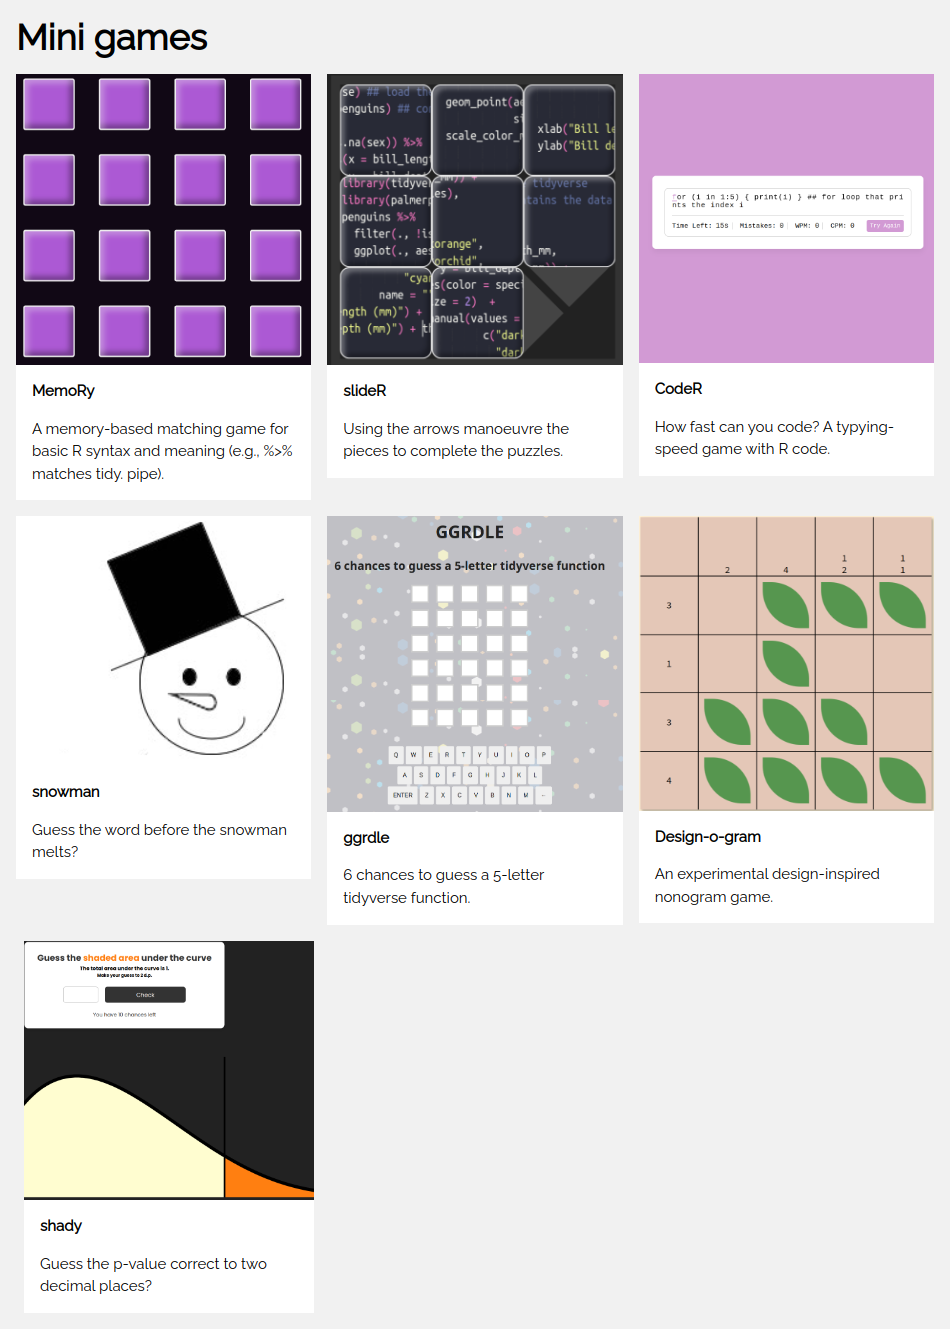
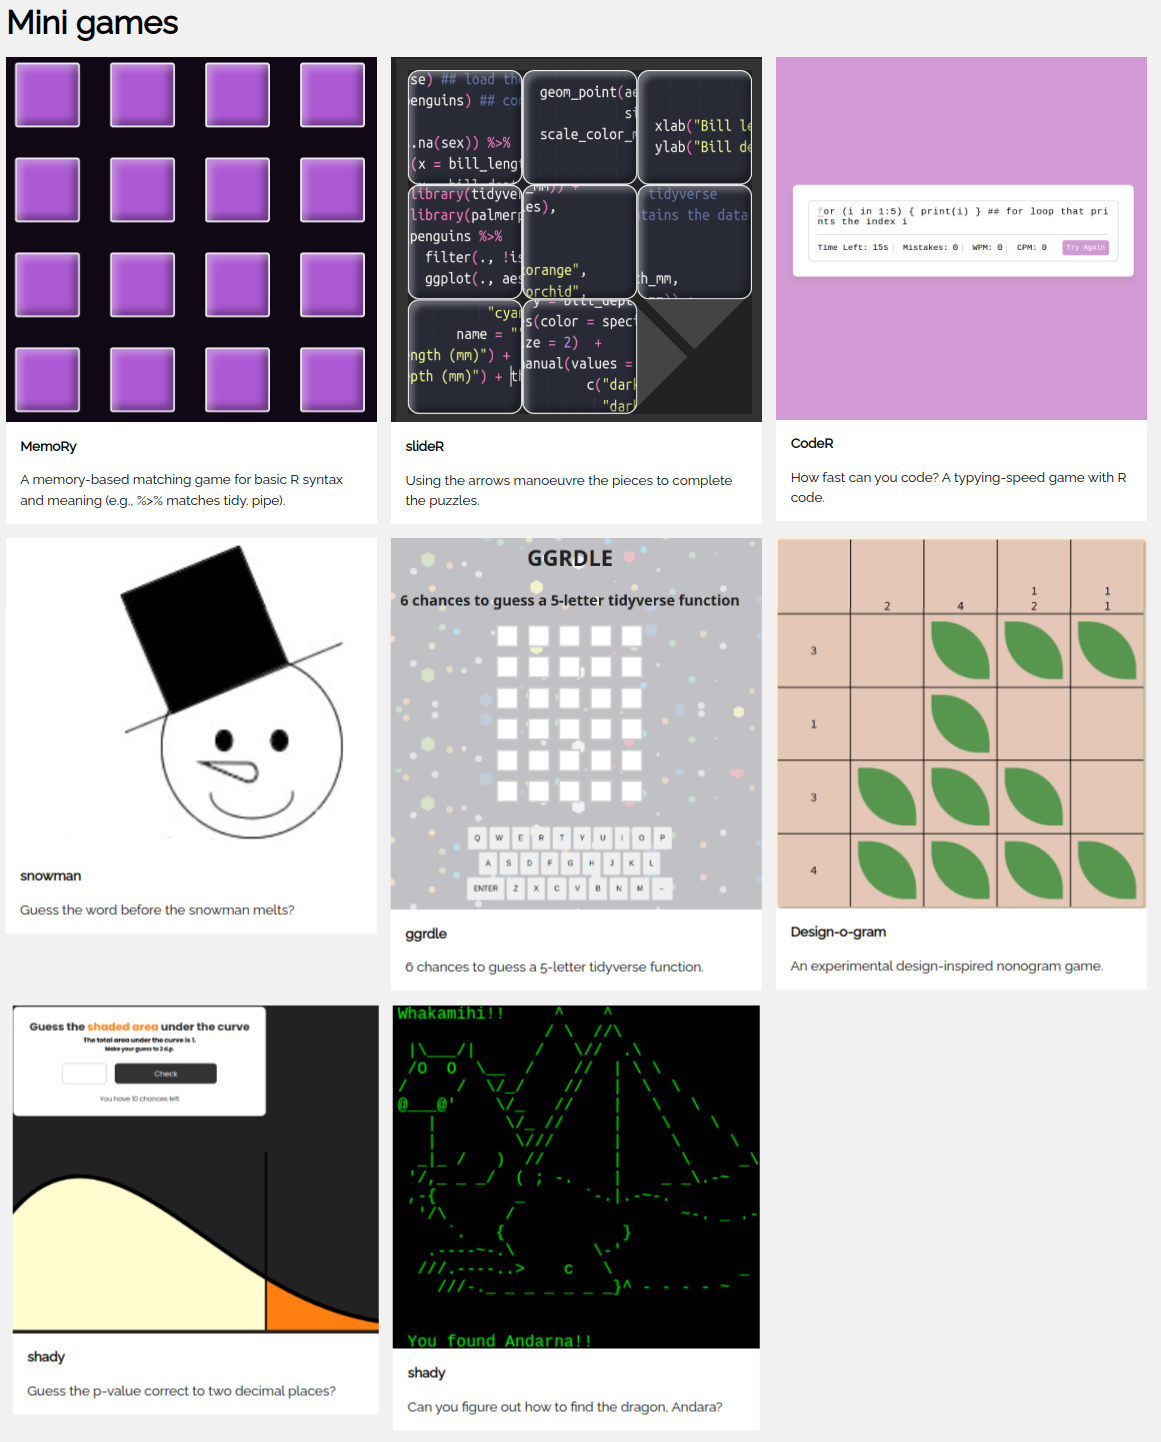
fixing links

Changed region(s): [[0.0, 0.0, 1.0, 0.9872], [0.0305, 0.5862, 0.3053, 0.6479]]

diff --git a/index.html b/index.html
@@ -98,7 +98,7 @@
 	</a>
       <div class="w3-container w3-white">
         <p><b>shady</b></p>
-        <p>Can you figure out how to find the dragon, Andara?</p>
+        <p>Can you figure out how to find the dragon, Andarna?</p>
       </div>
     </div>
  <!-- next game here -->

diff --git a/README.md b/README.md
@@ -13,7 +13,7 @@
  + [ggrdle](https://statbiscuit.github.io/mini_games/ggrdle/index.html): 6 chances to guess a 5-letter `tidyverse` function.
  + [Design-o-gram](https://statbiscuit.github.io/mini_games/design-o-gram/index.html) is a experimental design-inspired nonogram game.
  + [shady](https://statbiscuit.github.io/mini_games/shady/index.html) gets you to guess the p-value correct to two decimal places.
- + [zork](https://statbiscuit.github.io/mini_games/zork/index.html)go on an adventure and find the dragon, Andara.
+ + [zork](https://statbiscuit.github.io/mini_games/zork/index.html): go on an adventure and find the dragon, Andarna.
 
 
 ## Notes
@@ -28,6 +28,6 @@ All source code is available in the subfolders of this repo. Note that many of t
  + [Nonogram, Mostafa Alvandi, CodePen](https://codepen.io/alvandisetvat/pen/oNBwvWK)
  + [Number Guessing Game,  CodingNepal](https://www.codingnepalweb.com/create-game-html-css-javascript/)
  + [Beta distribution plot, Üstün Ergenoglu, CodePen](https://codepen.io/rgngl/pen/MLBBON)
- + [Building a Mini Text-Based Adventure Game]https://dev.to/shawn2208/building-a-mini-text-based-adventure-game-mini-zork-with-html-css-js-3879)
+ + [Building a Mini Text-Based Adventure Game](https://dev.to/shawn2208/building-a-mini-text-based-adventure-game-mini-zork-with-html-css-js-3879)
 
 

diff --git a/zork/README.md b/zork/README.md
@@ -5,7 +5,7 @@
 ## Notes
 
 
-The base code is modified from [Building a Mini Text-Based Adventure Game]https://dev.to/shawn2208/building-a-mini-text-based-adventure-game-mini-zork-with-html-css-js-3879)
+The base code is modified from [Building a Mini Text-Based Adventure Game](https://dev.to/shawn2208/building-a-mini-text-based-adventure-game-mini-zork-with-html-css-js-3879)
 
 The ASCII dragon is not mine but taken from this [ASCII Art Archive](https://www.asciiart.eu/mythology/dragons)
 
